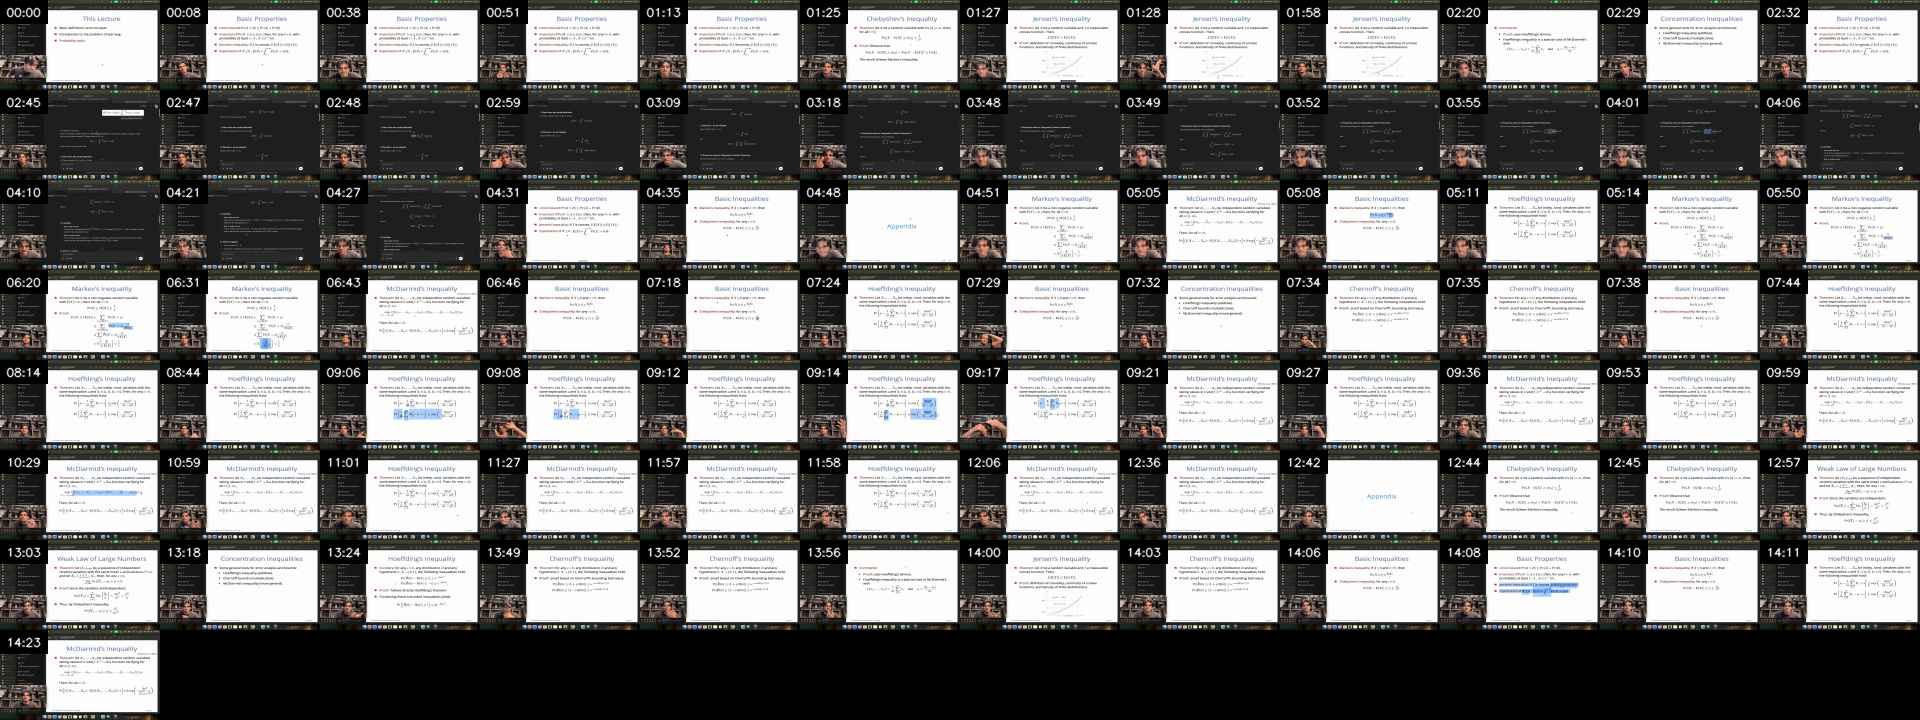
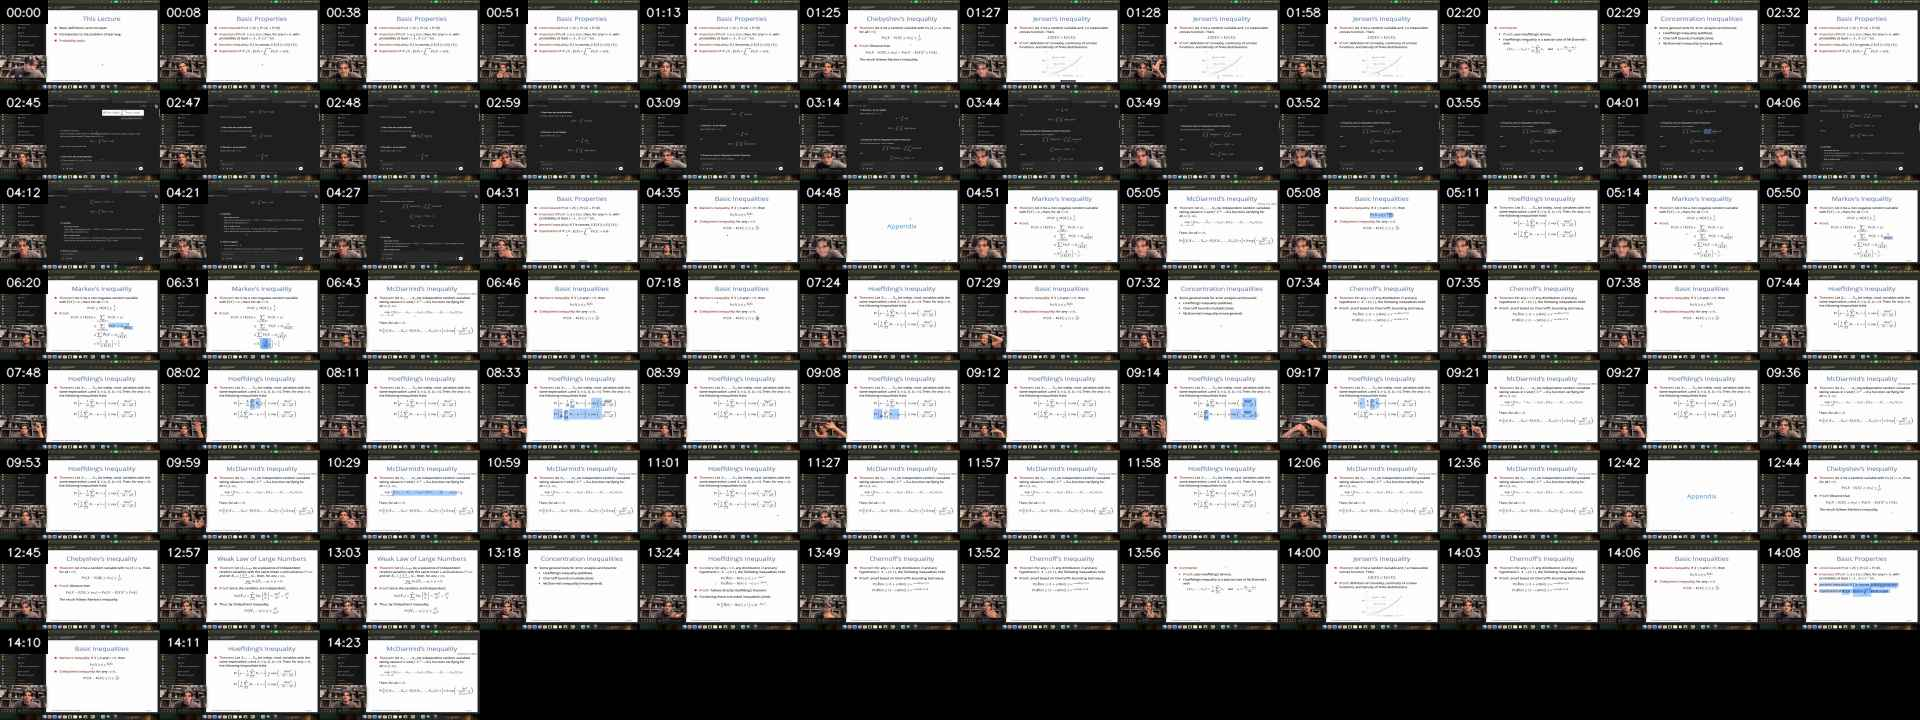
Digest for 5pJxZBpKEWk

diff --git a/digests/5pJxZBpKEWk/index.md b/digests/5pJxZBpKEWk/index.md
@@ -17,16 +17,16 @@ Relative links below resolve against `https://raw.githubusercontent.com/Isolati0
 | [sheet_0002.jpg](https://github.com/Isolati0n/Video/releases/download/sheets-5pJxZBpKEWk/sheet_0002.jpg) | 00:01:24-00:02:19 | 00:01:24 motion_burst: Large motion for 1.4s (peak 7, 13 hot frames; threshold 3.0) | Chebyshev’s Inequality / @ Theorem: let X be a random variable with Var[X] <oo, then, / for all / Proof: Observe that / The result follows Markov's inequality. ... | 00:01:58 (tile 8): low_conf | expectation of f of x. Why does this hold? We'll look at the we look at a diagram. Let's say we only had binary whatever x and y with the probability p of being x and probability 1 minus p 1 - t of being y. So expectatio... |
 | [sheet_0003.jpg](https://github.com/Isolati0n/Video/releases/download/sheets-5pJxZBpKEWk/sheet_0003.jpg) | 00:02:19-00:02:29 | 00:02:19 motion_burst: Large motion for 0.7s (peak 6, 2 hot frames; threshold 3.0)<br>00:02:28 motion_burst: Large motion for 3.2s (peak 7, 13 hot frames; threshold 3.0) | @ Library / Comments: / Proof: uses Hoeffding’s lemma. / © brand i / © Hoeffding’s inequality is a special case of McDiarmid’s / with / hang / o = Pinal / Jense... |  | inside a convex function. This comes from the definition of convexity and that's it. That's the insense inequality. It's going to be useful because we are trying to make sure all of our loss functions are convex and that... |
 | [sheet_0004.jpg](https://github.com/Isolati0n/Video/releases/download/sheets-5pJxZBpKEWk/sheet_0004.jpg) | 00:02:32-00:02:59 | 00:02:44 motion_burst: Large motion for 1.6s (peak 117, 8 hot frames; threshold 3.0) | Wed / Basic Properties / Union bound: Pr[A v B] < Pr[A] + Pr[B]. / probability at least 1-5, X / inequality: if f is cgnvex, f(E[X]) <E[f(X)] . / Expectation: i... | 00:02:32 (tile 1): math<br>00:02:45 (tile 6): dense<br>00:02:47 (tile 7): dense<br>00:02:48 (tile 8): dense<br>00:02:59 (tile 9): dense, low_conf | and yens inequality. The next one is an interesting one. The expectation X expectation if X is positive then expectation of X is just the tail probabilities in the the sum of the tail probabilities. And I asked Chad GPT ... |
-| [sheet_0005.jpg](https://github.com/Isolati0n/Video/releases/download/sheets-5pJxZBpKEWk/sheet_0005.jpg) | 00:03:09-00:04:10 |  | B Schoo! / ‘3. Swap the order of integration (Fubini’s theorem) / We can interchange the t~ and / int / E[X] = [ (fra) sear / + 2 Tools / ChatGPT 04-mini-high v... | 00:03:09 (tile 1): dense<br>00:03:18 (tile 2): dense<br>00:03:48 (tile 3): dense<br>00:03:49 (tile 4): dense<br>00:03:52 (tile 5): dense<br>00:03:55 (tile 6): dense<br>00:04:01 (tile 7): dense, low_conf<br>00:04:06 (tile 8): dense<br>00:04:10 (tile 9): math, dense | to the indicator variable integrated from 0 to x like just one sorry not indicator just one this constant function integrated from 0 to x that's x if I put that inside the expectation I get this particular uh this this f... |
+| [sheet_0005.jpg](https://github.com/Isolati0n/Video/releases/download/sheets-5pJxZBpKEWk/sheet_0005.jpg) | 00:03:09-00:04:12 |  | B Schoo! / ‘3. Swap the order of integration (Fubini’s theorem) / We can interchange the t~ and / int / E[X] = [ (fra) sear / + 2 Tools / ChatGPT 04-mini-high v... | 00:03:09 (tile 1): dense<br>00:03:14 (tile 2): dense<br>00:03:44 (tile 3): dense<br>00:03:49 (tile 4): dense<br>00:03:52 (tile 5): dense<br>00:03:55 (tile 6): dense<br>00:04:01 (tile 7): dense, low_conf<br>00:04:06 (tile 8): dense<br>00:04:12 (tile 9): math, dense | to the indicator variable integrated from 0 to x like just one sorry not indicator just one this constant function integrated from 0 to x that's x if I put that inside the expectation I get this particular uh this this f... |
 | [sheet_0006.jpg](https://github.com/Isolati0n/Video/releases/download/sheets-5pJxZBpKEWk/sheet_0006.jpg) | 00:04:21-00:04:48 | 00:04:47 motion_burst: Large motion for 1.0s (peak 6, 4 hot frames; threshold 3.0) | You only need X > 0. / No density is needed—as long as you can justif J, vapping intear / No density is needed—as long as you can justif J, vapping integrals by... | 00:04:21 (tile 1): dense<br>00:04:27 (tile 2): dense<br>00:04:31 (tile 3): math | under the tail probability curve Yeah, I suppose I suppose it works. I suppose Fibinius theorem works and this is it. So I mean just remember it. I suppose that's all about that's all I can say about this. Markov's inequ... |
 | [sheet_0007.jpg](https://github.com/Isolati0n/Video/releases/download/sheets-5pJxZBpKEWk/sheet_0007.jpg) | 00:04:51-00:05:10 | 00:05:04 motion_burst: Large motion for 1.1s (peak 6, 6 hot frames; threshold 3.0)<br>00:05:10 motion_burst: Large motion for 1.6s (peak 6, 8 hot frames; threshold 3.0) | Pr[X Prix / Prix =a] / age / Wed May 28 / Markov's Inequality / @ Theorem: let X be a non-negative random variable / with <oo, then, for all ¢>0, / @ Proof: / J... | 00:04:51 (tile 1): math | Let's look at this. Let X be a non- negative random variable. Then probability X is greater than epsilon is less than expectation divide by epsilon. Right? And expectation divided by this epsilon is just 1 / t. So this i... |
 | [sheet_0008.jpg](https://github.com/Isolati0n/Video/releases/download/sheets-5pJxZBpKEWk/sheet_0008.jpg) | 00:05:10-00:06:42 | 00:06:42 motion_burst: Large motion for 1.4s (peak 6, 6 hot frames; threshold 3.0) | Hoeffding’s Inequality / @ Theorem: Let Xi,...,Xm be indep. rand. variables with the / same expectation and X; €[a, b], (a<b). Then, for anye>0, / the following... |  | way of writing this. This the same thing. Epsilon here is t * expectation of x. So this is the right way of writing this. How is this true? Probability x is greater than this. This particular number is probability that X... |
 | [sheet_0009.jpg](https://github.com/Isolati0n/Video/releases/download/sheets-5pJxZBpKEWk/sheet_0009.jpg) | 00:06:42-00:07:28 | 00:07:28 motion_burst: Large motion for 3.2s (peak 7, 9 hot frames; threshold 3.0) | Wed M / McDiarmid’s Inequality / (McDiarmid, 1989) / hat / @ Theorem: let X1,...,X,, be independent random variables / taking values in f :U™ — Ra function veri... |  | you get 1 / t. So this is Marov's inequality. It's pretty if you you remember it, it's going to be easy that x is greater than epsilon is less than this number. And now chbbyev's inequality is just the same thing applied... |
 | [sheet_0010.jpg](https://github.com/Isolati0n/Video/releases/download/sheets-5pJxZBpKEWk/sheet_0010.jpg) | 00:07:28-00:07:35 | 00:07:33 motion_burst: Large motion for 4.5s (peak 7, 13 hot frames; threshold 3.0) | Preview / lie / Wed / Libre / © har / Appendix / Jot / page / Wed M / Weak Law of Large Numbers / hat / Theorem: let (Xn)nen be a sequence of independent / rand... | 00:07:29 (tile 2): low_conf | Okay, the Huffings inequality. The Huffings inequality is the main one which we're going to use and I don't think there's a proof for it but it comes from Chvy Chv's inequality and the churn of bounds. What the idea is t... |
-| [sheet_0011.jpg](https://github.com/Isolati0n/Video/releases/download/sheets-5pJxZBpKEWk/sheet_0011.jpg) | 00:07:38-00:09:17 |  | Basic Inequalities / Chebyshev's inequality: for any «>0 / Hoeffding’s Inequality / Xm be indep. rand. variables with the / same expectation and X; €[a, (a<b). ... |  | Okay, the Huffings inequality. The Huffings inequality is the main one which we're going to use and I don't think there's a proof for it but it comes from Chvy Chv's inequality and the churn of bounds. What the idea is t... |
-| [sheet_0012.jpg](https://github.com/Isolati0n/Video/releases/download/sheets-5pJxZBpKEWk/sheet_0012.jpg) | 00:09:21-00:11:02 |  | McDiarmid’s Inequality / (McDiarmid, 1989) / Theorem: let be independent random variables / taking values in Uand f:U™— Ra function verifying for / Log / sup / ... | 00:09:59 (tile 5): dense<br>00:10:29 (tile 6): dense | it's lower than mu with the same exponential decay. We can put a modulus and something like this. We can put the modulus and add these two terms together. It would be the union bound essentially. And the mcdarmed's inequ... |
-| [sheet_0013.jpg](https://github.com/Isolati0n/Video/releases/download/sheets-5pJxZBpKEWk/sheet_0013.jpg) | 00:11:02-00:12:41 | 00:11:03 static: Picture static for 20s (slide, paused video, idle screen) | Jot / age / View pl / Gee ® / Hoeffding’s Inequality / @ Theorem: Let X1,...,Xm be indep. rand. variables with the / same expectation p and X; € [a,b], (a<b). T... | 00:12:36 (tile 8): dense | than exponential DK in the in the CI square. If you look at this inequality and you look at Huftings inequality, what you really find out is that if my if my x i was taking values in ba, then I change a value of x i, it ... |
-| [sheet_0014.jpg](https://github.com/Isolati0n/Video/releases/download/sheets-5pJxZBpKEWk/sheet_0014.jpg) | 00:12:41-00:13:18 |  | Wed / @ Libr / © her / Appendix / page / Preview / Markov's Inequality / @ Theorem: let X be a non-negative random variable / with E[X]<oo, then, for all / @ Pr... | 00:12:42 (tile 4): low_conf<br>00:12:44 (tile 5): math<br>00:12:45 (tile 6): math | the tolerance of ci that means this function minus this expectation of the function over all uh random variables m can only be greater than epsilon with some probability which is exponentially decaying in epsilon epsilon... |
-| [sheet_0015.jpg](https://github.com/Isolati0n/Video/releases/download/sheets-5pJxZBpKEWk/sheet_0015.jpg) | 00:13:24-00:14:02 | 00:14:02 motion_burst: Large motion for 3.9s (peak 7, 15 hot frames; threshold 3.0) | Tools / Help, / Corollary: for any any distribution D and any / hypothesis h: X + {0, 1}, the following inequalities hold / Proof: follows directly Hoeffding's ... |  | almost surely and it can come from the it can come from Chbby Chev's inequality or it can come from let's say Huffings inequality it doesn't matter so there is churnoff bounds and uh there is turn of bounds which we have... |
-| [sheet_0016.jpg](https://github.com/Isolati0n/Video/releases/download/sheets-5pJxZBpKEWk/sheet_0016.jpg) | 00:14:03-00:14:11 | 00:14:08 motion_burst: Large motion for 1.0s (peak 5, 2 hot frames; threshold 3.0) | Proof: proof based on Chernoff's bounding technique. / Jot / lis / Chebyshev’s Inequality / for all t>0, / The result follows Markov's inequality. / Hoeffding’s... |  | So we good. Basically remember these two things. It's there the these are the really important things. uh uh Yensen's inequality is important and uh all of these are important and Huffdings inequality and Mcdarin inequal... |
-| [sheet_0017.jpg](https://github.com/Isolati0n/Video/releases/download/sheets-5pJxZBpKEWk/sheet_0017.jpg) | 00:14:23-00:14:23 |  | Wed M / hat / Jot / lie | 00:14:23 (tile 1): dense | important even if you don't get them now we will use them so often again and again again and again that it will just become second nature by the end of these lecture these videos. So that is slides one and we will do sli... |
+| [sheet_0011.jpg](https://github.com/Isolati0n/Video/releases/download/sheets-5pJxZBpKEWk/sheet_0011.jpg) | 00:07:38-00:09:12 |  | Basic Inequalities / Chebyshev's inequality: for any «>0 / Hoeffding’s Inequality / Xm be indep. rand. variables with the / same expectation and X; €[a, (a<b). ... |  | Okay, the Huffings inequality. The Huffings inequality is the main one which we're going to use and I don't think there's a proof for it but it comes from Chvy Chv's inequality and the churn of bounds. What the idea is t... |
+| [sheet_0012.jpg](https://github.com/Isolati0n/Video/releases/download/sheets-5pJxZBpKEWk/sheet_0012.jpg) | 00:09:14-00:10:59 |  | 9806 / Hoeffding’s Inequality / @ Theorem: Let X1,...,Xm be indep. rand. variables with the / same expectation p and X; € (a<b). Then, for anye>0, / the followi... | 00:09:59 (tile 7): dense<br>00:10:29 (tile 8): dense | what this this side is saying too. This side is saying this inequality is saying the same thing but from the positive side like it goes it goes higher than mu by epsilon with the same like exponential dk. And this one is... |
+| [sheet_0013.jpg](https://github.com/Isolati0n/Video/releases/download/sheets-5pJxZBpKEWk/sheet_0013.jpg) | 00:11:01-00:12:06 | 00:11:02 motion_burst: Large motion for 0.8s (peak 6, 2 hot frames; threshold 3.0)<br>00:11:03 static: Picture static for 20s (slide, paused video, idle screen) | Preview / Hoeffding’s Inequality / ™ Theorem: Let X1,...,Xm be indep. rand. variables with the / same expectation X; €[a, b], (a<b). Then, for anye>0, / the fol... |  | than exponential DK in the in the CI square. If you look at this inequality and you look at Huftings inequality, what you really find out is that if my if my x i was taking values in ba, then I change a value of x i, it ... |
+| [sheet_0014.jpg](https://github.com/Isolati0n/Video/releases/download/sheets-5pJxZBpKEWk/sheet_0014.jpg) | 00:12:36-00:12:57 | 00:12:41 motion_burst: Large motion for 1.7s (peak 5, 3 hot frames; threshold 3.0) | Xml >q] / McDiarmid’s Inequality / (McDiarmid, 1989) / @ Theorem: let X1,...,X,, be independent random variables / taking values in Vand — Ra function verifying... | 00:12:36 (tile 1): dense<br>00:12:42 (tile 6): low_conf<br>00:12:44 (tile 7): math<br>00:12:45 (tile 8): math | the tolerance of ci that means this function minus this expectation of the function over all uh random variables m can only be greater than epsilon with some probability which is exponentially decaying in epsilon epsilon... |
+| [sheet_0015.jpg](https://github.com/Isolati0n/Video/releases/download/sheets-5pJxZBpKEWk/sheet_0015.jpg) | 00:13:03-00:14:02 | 00:14:02 motion_burst: Large motion for 3.9s (peak 7, 15 hot frames; threshold 3.0) | lie / lim / Weak Law of Large Numbers / Theorem: let ( / )nen be a sequence of independent / random variables with the same mean / and variance o*<oo / Proof: S... |  | video and ponder it would be pretty simple uh law of large numbers is pretty cool not bad not bad um again this is like saying that if I keep increasing my sample I'm going to converse to the mean almost surely and it ca... |
+| [sheet_0016.jpg](https://github.com/Isolati0n/Video/releases/download/sheets-5pJxZBpKEWk/sheet_0016.jpg) | 00:14:02-00:14:08 | 00:14:08 motion_burst: Large motion for 1.0s (peak 5, 2 hot frames; threshold 3.0) | Proof: proof based on Chernoff's bounding technique. / Jot / lis / Chebyshev’s Inequality / for all t>0, / The result follows Markov's inequality. / Hoeffding’s... |  | So we good. Basically remember these two things. It's there the these are the really important things. uh uh Yensen's inequality is important and uh all of these are important and Huffdings inequality and Mcdarin inequal... |
+| [sheet_0017.jpg](https://github.com/Isolati0n/Video/releases/download/sheets-5pJxZBpKEWk/sheet_0017.jpg) | 00:14:10-00:14:23 |  | .; Xm be indep. rand. variables with the / age / Wed Mi / McDiarmid’s Inequality / (McDiarmid, 1989) / @ Theorem: let be independent random variables / taking v... | 00:14:23 (tile 3): dense | So we good. Basically remember these two things. It's there the these are the really important things. uh uh Yensen's inequality is important and uh all of these are important and Huffdings inequality and Mcdarin inequal... |
